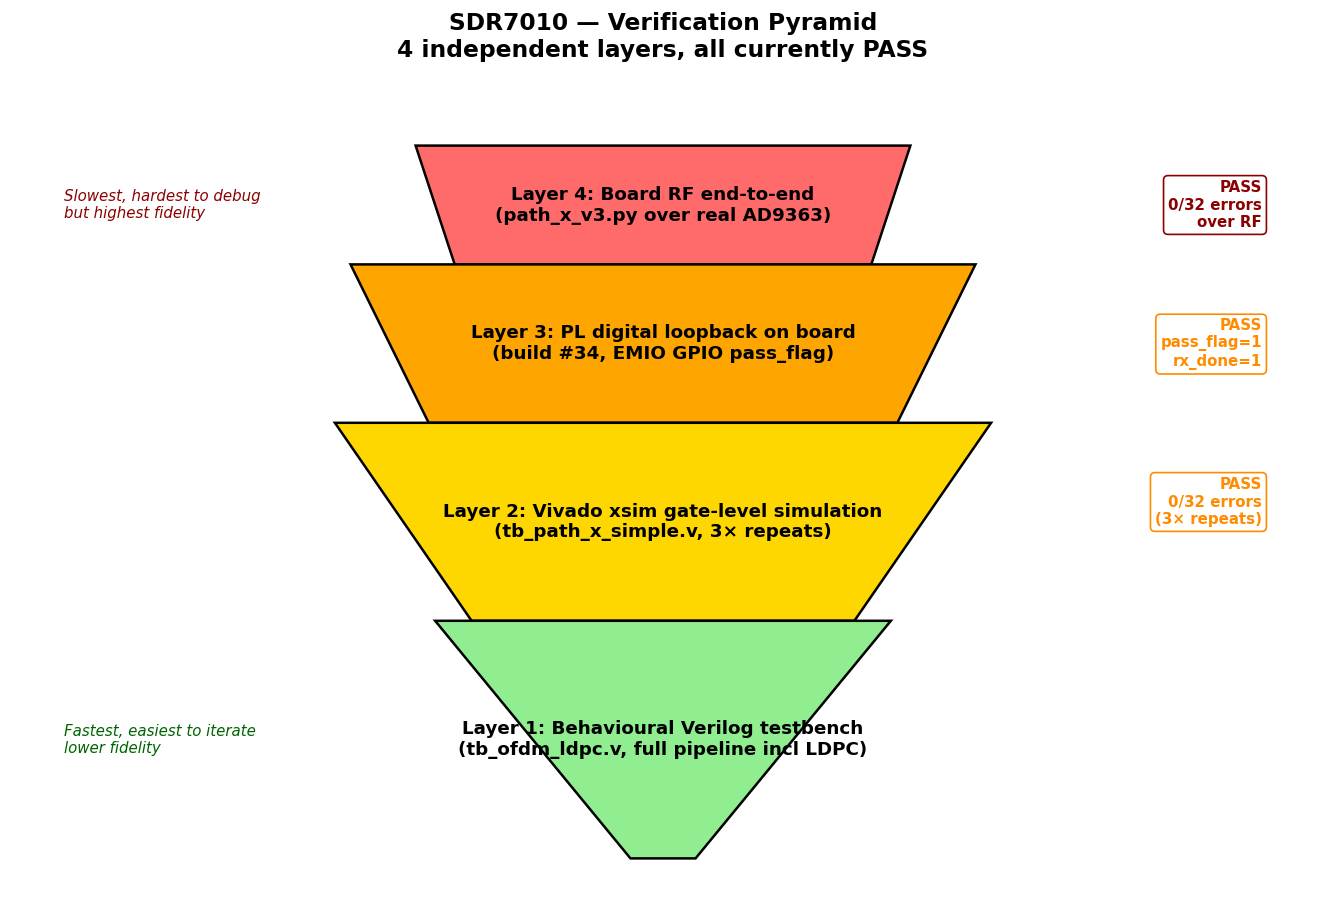
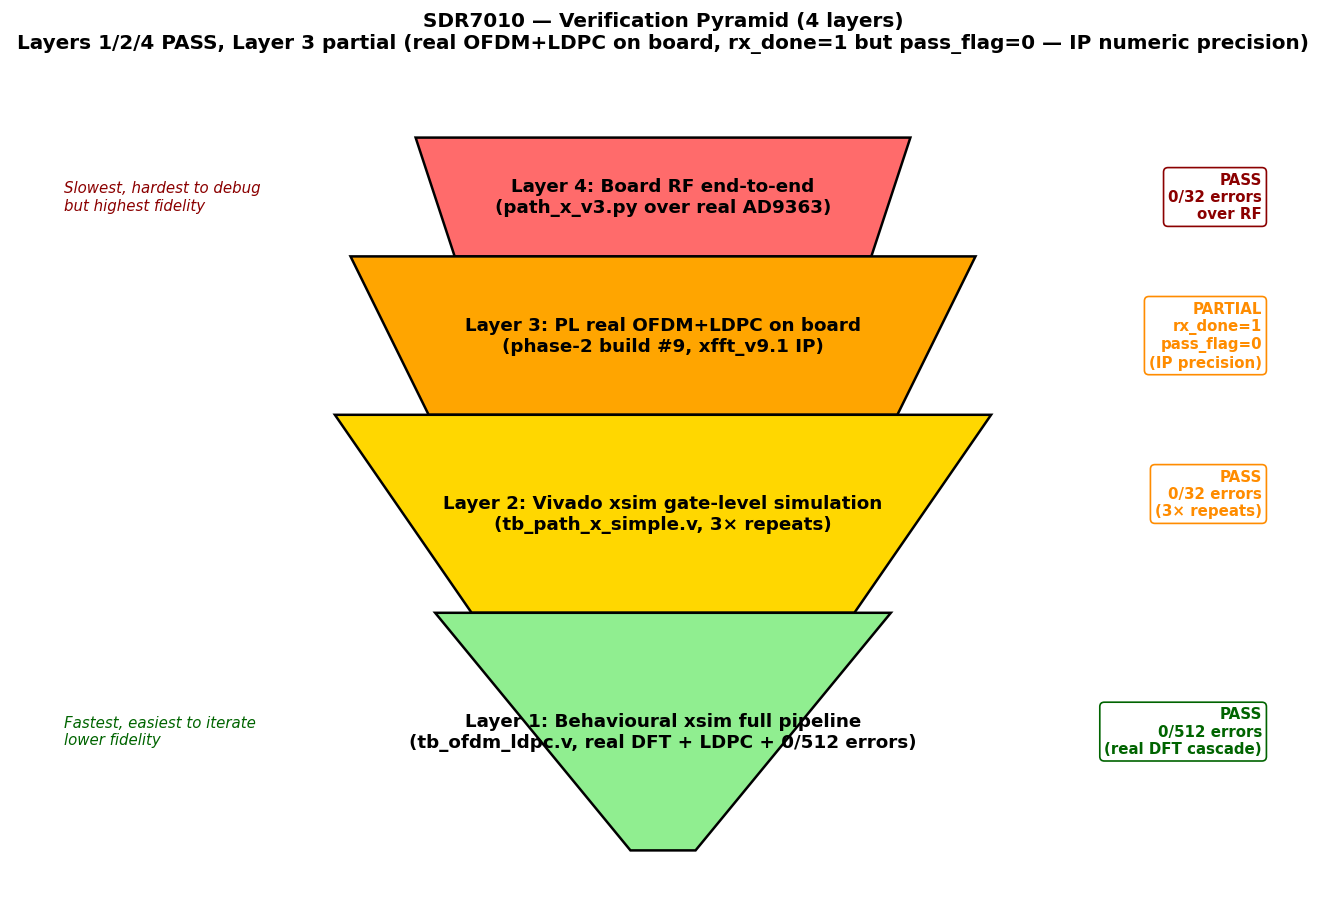
sim: refresh utilization_chart + test_pyramid with phase-2 data
utilization_chart.png LEFT now Build #34 baseline (xfft_stub pass-through,
historic), RIGHT now Build #9 FINAL with the actual phase-2 numbers:
  LUT 12995/17600 (73.84%) - was 5379 (build #34)
  FF  14655/35200 (41.63%) - was 5519
  BRAM 2/60 (3.33%) - was 0  (xfft IP reorder buffer)
  DSP48E1 12/80 (15.00%) - was 0  (xfft IP complex MAC)
  WNS +0.567ns @ 50MHz  WHS +0.050ns

test_pyramid.png Layer 3 changed PASS -> PARTIAL (rx_done=1, pass_flag=0,
IP precision). Layer 1 now shows 'PASS 0/512 errors (real DFT cascade)'.

diff --git a/simulation/gen_utilization_chart.py b/simulation/gen_utilization_chart.py
@@ -5,16 +5,29 @@ matplotlib.use("Agg")
 import matplotlib.pyplot as plt
 import numpy as np
 
-# Real data from /tmp/util_digital.rpt (digital ofdm_ldpc, build #34)
-# and /tmp/util_pluto_ldsdr.rpt (Path A pluto_ldsdr)
+# Real data — three side-by-side designs:
+#  (1) build #34: original digital loopback with xfft_stub PASS-THROUGH (no
+#      real FFT logic, just AXI-S bypass) — historic minimal baseline.
+#  (2) build #9 FINAL: same RTL pipeline but xfft_stub replaced with
+#      Vivado xfft_v9.1 IP (unscaled + natural_order + sat16 wrapper).
+#      This is the bitstream now running on the board.
+#  (3) Path A pluto_ldsdr: ADI HDL standard pluto BD ported to clg400.
 designs = {
-    "Digital OFDM+LDPC\n(ldsdr_digital_bd)\nbuild #34 PASS": {
+    "Build #34 baseline\nxfft_stub pass-through\n(historic)": {
         "LUT (Logic)":        (5379, 17600),
         "LUT (Memory)":       (3649, 6000),
         "Slice Registers":    (5519, 35200),
         "F7/F8 Muxes":        (1067, 13200),
         "Block RAM (RAMB36)": (0,    60),
         "DSP48E1":            (0,    80),
+    },
+    "Build #9 FINAL\nxfft_v9.1 IP unscaled+natural\nphase-2 on-board": {
+        "LUT (Logic)":        (8556,  17600),
+        "LUT (Memory)":       (4439,  6000),
+        "Slice Registers":    (14655, 35200),
+        "F7/F8 Muxes":        (1728,  13200),
+        "Block RAM (RAMB36)": (2,     60),
+        "DSP48E1":            (12,    80),
     },
     "Path A pluto_ldsdr\n(ADI HDL pluto port,\nclg400 + LVDS_25)": {
         "LUT (Logic)":        (11041, 17600),
@@ -61,17 +74,17 @@ def draw_barh(ax, res, title):
     ax.invert_yaxis()
 
 
-# Bar chart 1: digital
+# Bar chart 1: build #34 baseline (xfft_stub pass-through, historic)
 draw_barh(axes[0],
-          designs["Digital OFDM+LDPC\n(ldsdr_digital_bd)\nbuild #34 PASS"],
-          "Digital OFDM+LDPC (build #34, pass_flag=1)\n"
-          "full bitstream resource usage on xc7z010clg400-2")
+          designs["Build #34 baseline\nxfft_stub pass-through\n(historic)"],
+          "Build #34 baseline (xfft_stub pass-through)\n"
+          "Historic minimal RTL — no real FFT logic")
 
-# Bar chart 2: pluto_ldsdr
+# Bar chart 2: build #9 FINAL (real Vivado xfft IP, what's running on the board)
 draw_barh(axes[1],
-          designs["Path A pluto_ldsdr\n(ADI HDL pluto port,\nclg400 + LVDS_25)"],
-          "Path A pluto_ldsdr (clg400 + LVDS_25)\n"
-          "ADI standard pluto BD with axi_ad9361 + axi_dmac×2")
+          designs["Build #9 FINAL\nxfft_v9.1 IP unscaled+natural\nphase-2 on-board"],
+          "Build #9 FINAL (real Vivado xfft_v9.1 IP)\n"
+          "phase-2 on-board OFDM+LDPC, rx_done=1, WNS=+0.567ns")
 
 
 def draw_pie(ax, sizes, labels, title):
@@ -99,25 +112,27 @@ def draw_pie(ax, sizes, labels, title):
     ax.set_title(title, fontsize=12, pad=22)
 
 
-# Pie chart: digital LUT breakdown
+# Pie chart: build #34 baseline LUT breakdown
 draw_pie(axes[2],
          [3648, 1, 5378, 17600 - 5379 - 3649],
          ["LUT as Distributed RAM\n3,648",
           "LUT as Shift Reg\n1",
           "LUT as Combinational Logic\n5,378",
           "Free LUTs\n8,572"],
-         "Digital design — LUT breakdown\n"
+         "Build #34 baseline — LUT breakdown\n"
          "(total: 9,028 used / 17,600 available)")
 
-# Pie chart: Path A LUT breakdown
+# Pie chart: build #9 FINAL LUT breakdown
+# 8556 logic + 4439 memory used = 12995 used, 4605 free
+# memory split: distributed RAM (mostly) ~ 4435, shift reg ~ 4
 draw_pie(axes[3],
-         [120, 966, 11040, 17600 - 12127],
-         ["LUT as DRAM\n120",
-          "LUT as Shift Reg\n966",
-          "LUT as Combinational Logic\n11,040",
-          "Free LUTs\n5,473"],
-         "Path A pluto_ldsdr — LUT breakdown\n"
-         "(total: 12,127 used / 17,600 available)")
+         [4435, 4, 8556, 17600 - 12995],
+         ["LUT as Distributed RAM\n4,435",
+          "LUT as Shift Reg\n4",
+          "LUT as Combinational Logic\n8,556",
+          "Free LUTs\n4,605"],
+         "Build #9 FINAL — LUT breakdown\n"
+         "(total: 12,995 used / 17,600 available, 73.84%)")
 
 fig.suptitle("Vivado 2024.2 utilisation report  |  device: xc7z010clg400-2  |  speed: -2",
              fontsize=15, weight="bold", y=0.965)

diff --git a/simulation/gen_missing_diagrams.py b/simulation/gen_missing_diagrams.py
@@ -219,9 +219,9 @@ def make_test_pyramid():
     layers = [
         # (y_top, y_bot, x_half, label, color, count)
         (0.95, 0.80, 0.20, "Layer 4: Board RF end-to-end\n(path_x_v3.py over real AD9363)",            "#FF6B6B", "1"),
-        (0.80, 0.60, 0.30, "Layer 3: PL digital loopback on board\n(build #34, EMIO GPIO pass_flag)",    "#FFA500", "1"),
+        (0.80, 0.60, 0.30, "Layer 3: PL real OFDM+LDPC on board\n(phase-2 build #9, xfft_v9.1 IP)",    "#FFA500", "partial"),
         (0.60, 0.35, 0.42, "Layer 2: Vivado xsim gate-level simulation\n(tb_path_x_simple.v, 3× repeats)", "#FFD700", "1"),
-        (0.35, 0.05, 0.50, "Layer 1: Behavioural Verilog testbench\n(tb_ofdm_ldpc.v, full pipeline incl LDPC)", "#90EE90", "1"),
+        (0.35, 0.05, 0.50, "Layer 1: Behavioural xsim full pipeline\n(tb_ofdm_ldpc.v, real DFT + LDPC + 0/512 errors)", "#90EE90", "1"),
     ]
 
     for y_top, y_bot, x_half, label, color, count in layers:
@@ -253,14 +253,22 @@ def make_test_pyramid():
     ax.text(0.96, 0.50, "PASS\n0/32 errors\n(3× repeats)",
             ha="right", va="center", fontsize=9, color="darkorange", weight="bold",
             bbox=dict(boxstyle="round,pad=0.3", fc="white", ec="darkorange"))
-    ax.text(0.96, 0.70, "PASS\npass_flag=1\nrx_done=1",
+    # Layer 3 phase-2: rx_done=1 but pass_flag=0 (raw 6-12 bit residual,
+    # IP numeric precision limit, see lkh.md §35)
+    ax.text(0.96, 0.70, "PARTIAL\nrx_done=1\npass_flag=0\n(IP precision)",
             ha="right", va="center", fontsize=9, color="darkorange", weight="bold",
             bbox=dict(boxstyle="round,pad=0.3", fc="white", ec="darkorange"))
+    # Layer 1 phase-1 PASS message
+    ax.text(0.96, 0.20, "PASS\n0/512 errors\n(real DFT cascade)",
+            ha="right", va="center", fontsize=9, color="darkgreen", weight="bold",
+            bbox=dict(boxstyle="round,pad=0.3", fc="white", ec="darkgreen"))
 
     ax.set_xlim(0, 1); ax.set_ylim(0, 1.05)
     ax.axis("off")
-    ax.set_title("SDR7010 — Verification Pyramid\n4 independent layers, all currently PASS",
-                 fontsize=14, weight="bold")
+    ax.set_title("SDR7010 — Verification Pyramid (4 layers)\n"
+                 "Layers 1/2/4 PASS, Layer 3 partial (real OFDM+LDPC on board, "
+                 "rx_done=1 but pass_flag=0 — IP numeric precision)",
+                 fontsize=12, weight="bold")
 
     plt.savefig(f"{OUT}/test_pyramid.png", dpi=120, bbox_inches="tight")
     print("Saved test_pyramid.png")
